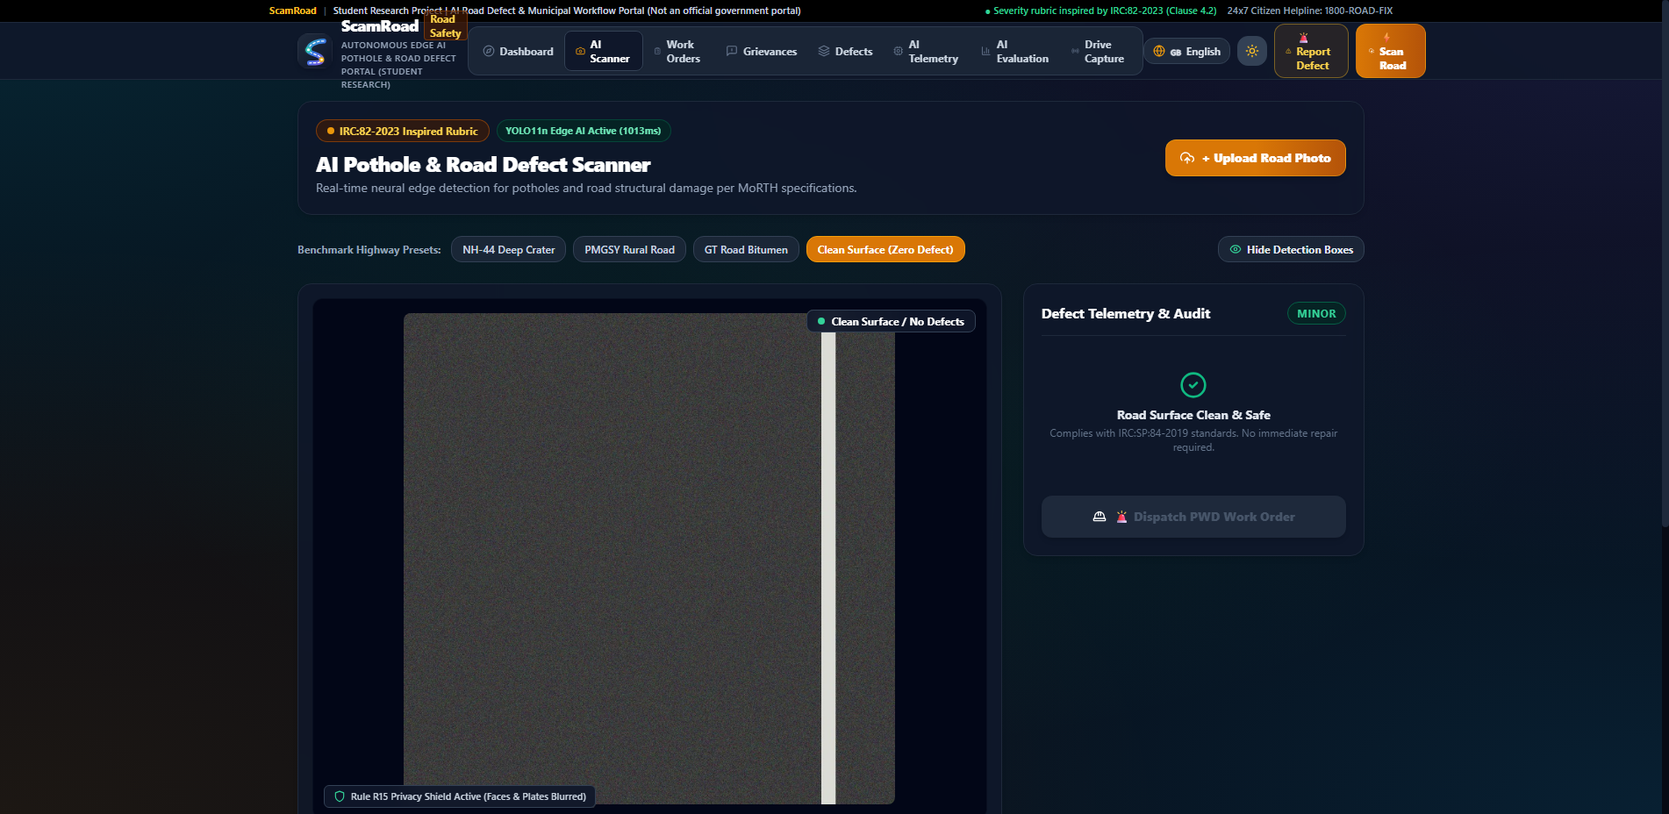
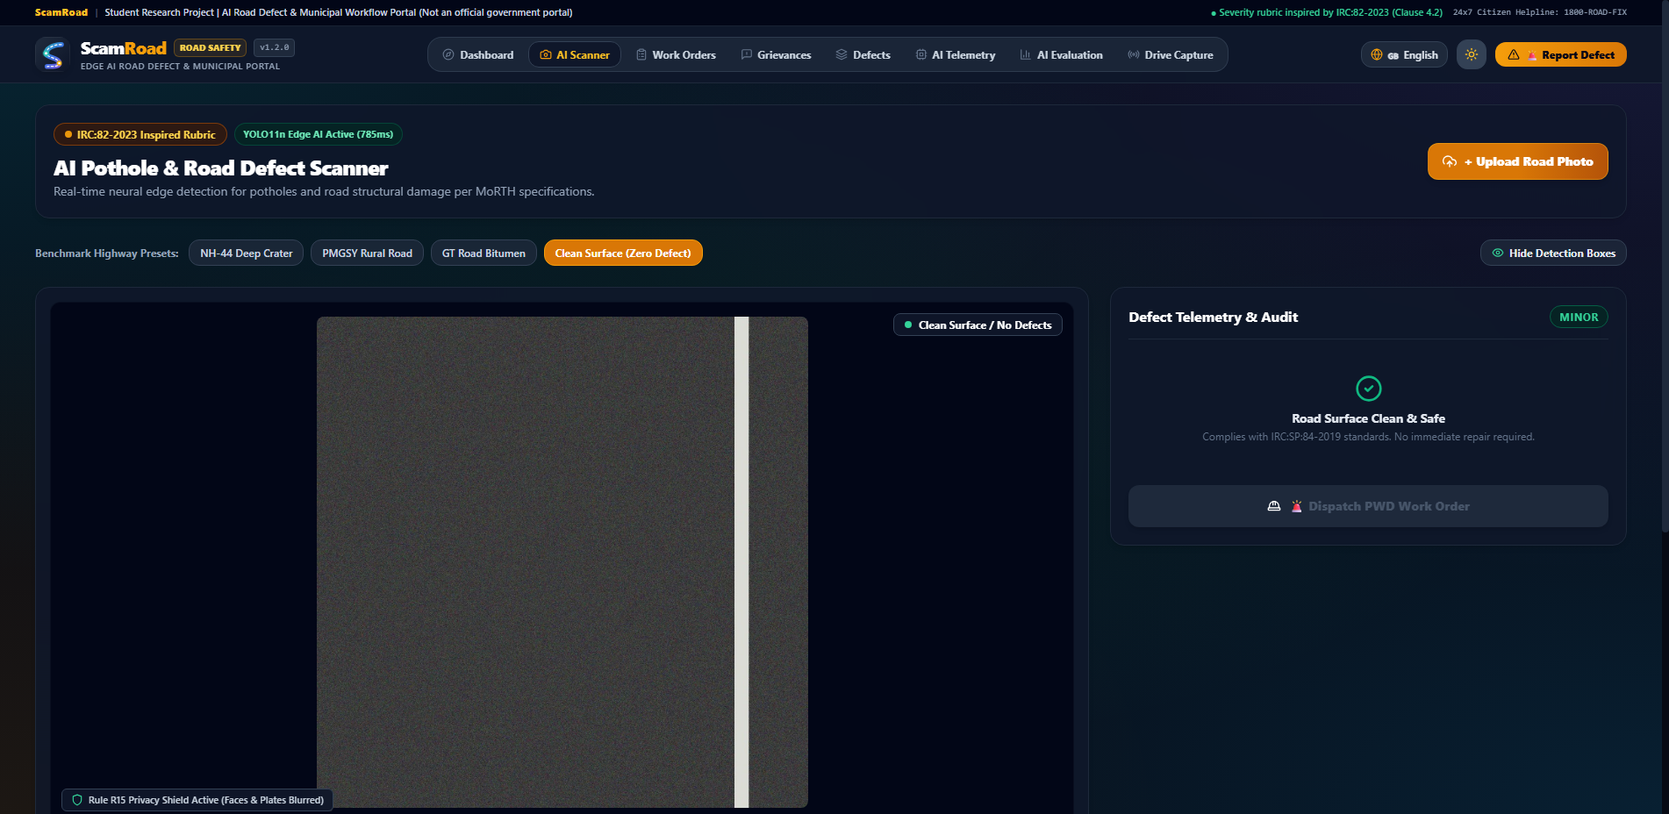
fix(ui): enable fluid full-screen layout, eliminate navbar text collisions, and equalize card heights

diff --git a/web/src/components/Navbar.tsx b/web/src/components/Navbar.tsx
@@ -7,7 +7,6 @@ import {
   MessageSquareWarning,
   Layers,
   Cpu,
-  UploadCloud,
   Menu,
   X,
   AlertTriangle,
@@ -53,50 +52,50 @@ export const Navbar: React.FC = () => {
   ];
 
   return (
-    <header className="sticky top-0 z-50 bg-white/90 dark:bg-slate-900/90 backdrop-blur-md shadow-sm border-b border-slate-200/90 dark:border-slate-800 transition-colors duration-300">
-      {/* Student Research Disclaimer & Standards Notice */}
-      <div className="bg-slate-900 dark:bg-black text-slate-300 py-1 px-4 sm:px-6 lg:px-8 text-[11px] font-medium border-b border-slate-800">
-        <div className="max-w-7xl mx-auto flex items-center justify-between">
-          <div className="flex items-center gap-2">
-            <span className="text-amber-400 font-bold">{t("appName")}</span>
-            <span className="hidden sm:inline text-slate-600">|</span>
-            <span className="hidden sm:inline text-slate-300">
-              {t("govtBanner")}
-            </span>
+    <header className="sticky top-0 z-50 bg-white/95 dark:bg-slate-900/95 backdrop-blur-md shadow-xs border-b border-slate-200/90 dark:border-slate-800 transition-colors duration-300">
+      {/* Student Research Disclaimer & Standards Notice Ticker */}
+      <div className="bg-slate-950 text-slate-300 py-1.5 px-4 sm:px-6 lg:px-8 xl:px-10 text-[11px] font-medium border-b border-slate-800/80">
+        <div className="w-full flex items-center justify-between gap-4">
+          <div className="flex items-center gap-2 overflow-hidden text-ellipsis whitespace-nowrap">
+            <span className="text-amber-400 font-extrabold tracking-wider">{t("appName")}</span>
+            <span className="text-slate-600 hidden sm:inline">|</span>
+            <span className="text-slate-300 truncate hidden sm:inline">{t("govtBanner")}</span>
           </div>
-          <div className="flex items-center gap-3">
-            <span className="hidden md:inline text-emerald-400 font-semibold">
+          <div className="flex items-center gap-3 shrink-0">
+            <span className="hidden md:inline-flex items-center gap-1.5 text-emerald-400 font-semibold">
               ● {t("standardsNotice")}
             </span>
-            <span className="text-slate-400">{t("helplineText")}</span>
+            <span className="text-slate-400 font-mono text-[10px]">{t("helplineText")}</span>
           </div>
         </div>
       </div>
 
-      <div className="max-w-7xl mx-auto px-4 sm:px-6 lg:px-8">
-        <div className="flex items-center justify-between h-16">
-          {/* Official Emblem & Logo */}
-          <div className="flex items-center gap-3">
-            <Link to="/" className="flex items-center gap-2.5 group">
-              <Logo showWordmark={false} size="md" />
-              <div>
-                <div className="flex items-center gap-1.5">
-                  <span className="font-black text-lg text-slate-900 dark:text-white tracking-tight">
-                    {t("appName")}
-                  </span>
-                  <span className="text-xs font-bold px-1.5 py-0.2 rounded bg-amber-100 dark:bg-amber-950/70 text-amber-800 dark:text-amber-300 border border-amber-300 dark:border-amber-700/50">
-                    {t("appHindiName")}
-                  </span>
-                </div>
-                <span className="text-[10px] block text-slate-500 dark:text-slate-400 font-semibold tracking-wider uppercase -mt-0.5">
-                  {t("appSubtitle")}
+      {/* Main Navigation Bar */}
+      <div className="w-full px-4 sm:px-6 lg:px-8 xl:px-10">
+        <div className="flex items-center justify-between min-h-[64px] py-2 gap-4">
+          {/* Official Logo & Brand */}
+          <Link to="/" className="flex items-center gap-3 shrink-0 group">
+            <Logo showWordmark={false} size="md" />
+            <div className="flex flex-col justify-center">
+              <div className="flex items-center gap-2">
+                <span className="font-black text-xl text-slate-900 dark:text-white tracking-tight">
+                  Scam<span className="text-amber-500">Road</span>
+                </span>
+                <span className="text-[10px] font-extrabold px-1.5 py-0.5 rounded-md bg-amber-500/10 text-amber-700 dark:text-amber-300 border border-amber-500/30 uppercase">
+                  {t("appHindiName")}
+                </span>
+                <span className="hidden sm:inline-block text-[10px] font-mono px-1.5 py-0.5 rounded bg-slate-100 dark:bg-slate-800 text-slate-500 dark:text-slate-400 border border-slate-200 dark:border-slate-700">
+                  v1.2.0
                 </span>
               </div>
-            </Link>
-          </div>
+              <span className="text-[10px] text-slate-500 dark:text-slate-400 font-semibold uppercase tracking-wider hidden md:block whitespace-nowrap">
+                Edge AI Road Defect &amp; Municipal Portal
+              </span>
+            </div>
+          </Link>
 
           {/* Desktop Navigation Links */}
-          <nav className="hidden xl:flex items-center bg-slate-100/90 dark:bg-slate-800/80 p-1 rounded-xl border border-slate-200/90 dark:border-slate-700/80">
+          <nav className="hidden lg:flex items-center gap-1 bg-slate-100/90 dark:bg-slate-800/80 p-1 rounded-2xl border border-slate-200/90 dark:border-slate-700/80 shrink-0">
             {navLinks.map((item) => {
               const Icon = item.icon;
               const isActive = location.pathname === item.to;
@@ -104,9 +103,9 @@ export const Navbar: React.FC = () => {
                 <Link
                   key={item.to}
                   to={item.to}
-                  className={`flex items-center gap-1.5 px-3 py-1.5 rounded-lg text-xs font-bold transition-all ${
+                  className={`flex items-center gap-1.5 px-3 py-1.5 rounded-xl text-xs font-bold transition-all whitespace-nowrap ${
                     isActive
-                      ? "bg-white dark:bg-slate-900 text-slate-900 dark:text-white shadow-sm border border-slate-300/80 dark:border-slate-700 text-amber-600 dark:text-amber-400"
+                      ? "bg-white dark:bg-slate-900 text-amber-600 dark:text-amber-400 shadow-xs border border-slate-300/80 dark:border-slate-700 font-black"
                       : "text-slate-600 dark:text-slate-300 hover:text-slate-900 dark:hover:text-white hover:bg-white/60 dark:hover:bg-slate-700/60"
                   }`}
                 >
@@ -117,8 +116,8 @@ export const Navbar: React.FC = () => {
             })}
           </nav>
 
-          {/* Right Action Controls: Lang Switcher, Theme Switcher, Quick Buttons */}
-          <div className="flex items-center gap-2">
+          {/* Right Action Controls: Lang Switcher, Theme Switcher, Quick CTA */}
+          <div className="flex items-center gap-2.5 shrink-0">
             {/* Language Selector Dropdown */}
             <div className="relative" ref={dropdownRef}>
               <button
@@ -133,7 +132,7 @@ export const Navbar: React.FC = () => {
               </button>
 
               {langDropdownOpen && (
-                <div className="absolute right-0 mt-2 w-44 rounded-xl bg-white dark:bg-slate-900 border border-slate-200 dark:border-slate-700 shadow-xl py-1 z-50 animate-in fade-in zoom-in-95">
+                <div className="absolute right-0 mt-2 w-48 rounded-xl bg-white dark:bg-slate-900 border border-slate-200 dark:border-slate-700 shadow-xl py-1 z-50 animate-in fade-in zoom-in-95">
                   <div className="px-3 py-1.5 text-[10px] font-bold text-slate-400 uppercase tracking-wider border-b border-slate-100 dark:border-slate-800">
                     {t("selectLanguage")}
                   </div>
@@ -175,27 +174,19 @@ export const Navbar: React.FC = () => {
               )}
             </button>
 
-            {/* Quick Actions */}
+            {/* Quick 1-Click Action */}
             <Link
               to="/complaints"
-              className="hidden md:inline-flex items-center gap-1.5 px-3 py-1.5 rounded-xl bg-amber-500/10 hover:bg-amber-500/20 text-amber-900 dark:text-amber-300 text-xs font-bold border border-amber-400/40 transition-all shadow-xs"
+              className="hidden sm:inline-flex items-center gap-1.5 px-3.5 py-1.5 rounded-xl bg-gradient-to-r from-amber-500 to-amber-600 hover:from-amber-400 hover:to-amber-500 text-slate-950 text-xs font-black transition-all shadow-xs active:scale-98 whitespace-nowrap"
             >
-              <AlertTriangle className="w-3.5 h-3.5 text-amber-600 dark:text-amber-400" />
+              <AlertTriangle className="w-3.5 h-3.5" />
               <span>{t("reportPotholeBtn")}</span>
-            </Link>
-
-            <Link
-              to="/scanner"
-              className="inline-flex items-center gap-1.5 px-3.5 py-1.5 rounded-xl bg-gradient-to-r from-amber-600 to-amber-700 hover:from-amber-500 hover:to-amber-600 text-white text-xs font-extrabold transition-all shadow-sm border border-amber-400/30 active:scale-98"
-            >
-              <UploadCloud className="w-3.5 h-3.5 text-white" />
-              <span>{t("scanPhotoBtn")}</span>
             </Link>
 
             {/* Mobile Hamburger Button */}
             <button
               onClick={() => setMobileMenuOpen(!mobileMenuOpen)}
-              className="xl:hidden p-1.5 rounded-xl text-slate-700 dark:text-slate-300 hover:bg-slate-100 dark:hover:bg-slate-800 border border-slate-200 dark:border-slate-700"
+              className="lg:hidden p-2 rounded-xl text-slate-700 dark:text-slate-300 hover:bg-slate-100 dark:hover:bg-slate-800 border border-slate-200 dark:border-slate-700"
               aria-label="Toggle Navigation"
             >
               {mobileMenuOpen ? <X className="w-5 h-5" /> : <Menu className="w-5 h-5" />}
@@ -204,9 +195,9 @@ export const Navbar: React.FC = () => {
         </div>
       </div>
 
-      {/* Mobile Drawer Menu */}
+      {/* Mobile Drawer Menu (screens < lg) */}
       {mobileMenuOpen && (
-        <div className="xl:hidden bg-white dark:bg-slate-900 border-b border-slate-200 dark:border-slate-800 px-4 pt-2 pb-4 space-y-1 shadow-lg">
+        <div className="lg:hidden bg-white dark:bg-slate-900 border-b border-slate-200 dark:border-slate-800 px-4 pt-2 pb-4 space-y-1 shadow-lg">
           {navLinks.map((item) => {
             const Icon = item.icon;
             const isActive = location.pathname === item.to;
@@ -246,26 +237,6 @@ export const Navbar: React.FC = () => {
           </div>
         </div>
       )}
-
-      {/* Mobile Quick Bottom Bar */}
-      <div className="sm:hidden flex items-center justify-around py-1.5 border-t border-slate-200 dark:border-slate-800 bg-white/95 dark:bg-slate-900/95 backdrop-blur-md">
-        {navLinks.slice(0, 4).map((item) => {
-          const Icon = item.icon;
-          const isActive = location.pathname === item.to;
-          return (
-            <Link
-              key={item.to}
-              to={item.to}
-              className={`flex flex-col items-center gap-0.5 py-1 px-2 text-[10px] font-bold ${
-                isActive ? "text-amber-600 dark:text-amber-400 font-extrabold" : "text-slate-500 dark:text-slate-400"
-              }`}
-            >
-              <Icon className="w-4 h-4" />
-              <span>{item.label}</span>
-            </Link>
-          );
-        })}
-      </div>
     </header>
   );
 };

diff --git a/web/src/pages/DashboardPage.tsx b/web/src/pages/DashboardPage.tsx
@@ -137,73 +137,81 @@ export const DashboardPage: React.FC = () => {
         </div>
       </div>
 
-      {/* KPI Cards */}
+      {/* KPI Cards (Uniform Height & Balanced Alignment) */}
       <div className="grid grid-cols-1 sm:grid-cols-2 lg:grid-cols-4 gap-4">
-        <div className="bg-white/85 dark:bg-slate-900/85 backdrop-blur-md p-5 rounded-2xl border border-slate-200/90 dark:border-slate-800 shadow-md hover:border-slate-300 dark:hover:border-slate-700 transition-all flex items-center justify-between">
-          <div>
-            <span className="text-xs font-bold text-slate-500 dark:text-slate-400 uppercase tracking-wider block">
+        <div className="bg-white/85 dark:bg-slate-900/85 backdrop-blur-md p-5 rounded-2xl border border-slate-200/90 dark:border-slate-800 shadow-md hover:border-slate-300 dark:hover:border-slate-700 transition-all flex flex-col justify-between h-full min-h-[140px]">
+          <div className="flex items-start justify-between gap-3">
+            <span className="text-xs font-bold text-slate-500 dark:text-slate-400 uppercase tracking-wider block min-h-[32px] flex items-center">
               {t("totalDefects")}
             </span>
-            <span className="text-3xl font-black text-slate-900 dark:text-white mt-1 block">
+            <div className="w-11 h-11 rounded-xl bg-slate-100 dark:bg-slate-800 flex items-center justify-center text-slate-700 dark:text-slate-200 border border-slate-200 dark:border-slate-700 shrink-0">
+              <Layers className="w-5 h-5" />
+            </div>
+          </div>
+          <div className="mt-2">
+            <span className="text-3xl font-black text-slate-900 dark:text-white block font-mono">
               {stats?.total_defects ?? 0}
             </span>
-            <span className="text-xs text-slate-500 dark:text-slate-400 mt-1 block font-medium">
+            <span className="text-xs text-slate-500 dark:text-slate-400 mt-1 block font-medium truncate">
               <strong className="text-amber-600 dark:text-amber-400">{stats?.open_defects ?? 0} {t("activeDefects")}</strong> | {stats?.repaired_defects ?? 0} {t("repairedDefects")}
             </span>
           </div>
-          <div className="w-12 h-12 rounded-xl bg-slate-100 dark:bg-slate-800 flex items-center justify-center text-slate-700 dark:text-slate-200 border border-slate-200 dark:border-slate-700">
-            <Layers className="w-6 h-6" />
-          </div>
         </div>
 
-        <div className="bg-white/85 dark:bg-slate-900/85 backdrop-blur-md p-5 rounded-2xl border border-red-200/90 dark:border-red-900/60 shadow-md hover:border-red-300 dark:hover:border-red-800 transition-all flex items-center justify-between bg-gradient-to-br from-white via-white to-red-50/30 dark:from-slate-900 dark:via-slate-900 dark:to-red-950/20">
-          <div>
-            <span className="text-xs font-bold text-red-600 dark:text-red-400 uppercase tracking-wider block">
+        <div className="bg-white/85 dark:bg-slate-900/85 backdrop-blur-md p-5 rounded-2xl border border-red-200/90 dark:border-red-900/60 shadow-md hover:border-red-300 dark:hover:border-red-800 transition-all flex flex-col justify-between h-full min-h-[140px] bg-gradient-to-br from-white via-white to-red-50/30 dark:from-slate-900 dark:via-slate-900 dark:to-red-950/20">
+          <div className="flex items-start justify-between gap-3">
+            <span className="text-xs font-bold text-red-600 dark:text-red-400 uppercase tracking-wider block min-h-[32px] flex items-center">
               {t("criticalPotholes")}
             </span>
-            <span className="text-3xl font-black text-red-600 dark:text-red-400 mt-1 block">
+            <div className="w-11 h-11 rounded-xl bg-red-100 dark:bg-red-950/80 flex items-center justify-center text-red-600 dark:text-red-400 border border-red-200 dark:border-red-800 shrink-0">
+              <AlertOctagon className="w-5 h-5" />
+            </div>
+          </div>
+          <div className="mt-2">
+            <span className="text-3xl font-black text-red-600 dark:text-red-400 block font-mono">
               {stats?.critical_defects ?? 0}
             </span>
-            <span className="text-xs text-red-700 dark:text-red-300 font-bold mt-1 block">
+            <span className="text-xs text-red-700 dark:text-red-300 font-bold mt-1 block truncate">
               {t("immediateRemediation")}
             </span>
           </div>
-          <div className="w-12 h-12 rounded-xl bg-red-100 dark:bg-red-950/80 flex items-center justify-center text-red-600 dark:text-red-400 border border-red-200 dark:border-red-800">
-            <AlertOctagon className="w-6 h-6" />
-          </div>
         </div>
 
-        <div className="bg-white/85 dark:bg-slate-900/85 backdrop-blur-md p-5 rounded-2xl border border-slate-200/90 dark:border-slate-800 shadow-md hover:border-slate-300 dark:hover:border-slate-700 transition-all flex items-center justify-between">
-          <div>
-            <span className="text-xs font-bold text-slate-500 dark:text-slate-400 uppercase tracking-wider block">
+        <div className="bg-white/85 dark:bg-slate-900/85 backdrop-blur-md p-5 rounded-2xl border border-slate-200/90 dark:border-slate-800 shadow-md hover:border-slate-300 dark:hover:border-slate-700 transition-all flex flex-col justify-between h-full min-h-[140px]">
+          <div className="flex items-start justify-between gap-3">
+            <span className="text-xs font-bold text-slate-500 dark:text-slate-400 uppercase tracking-wider block min-h-[32px] flex items-center">
               {t("citizenGrievances")}
             </span>
-            <span className="text-3xl font-black text-slate-900 dark:text-white mt-1 block">
+            <div className="w-11 h-11 rounded-xl bg-blue-50 dark:bg-blue-950/60 flex items-center justify-center text-blue-600 dark:text-blue-400 border border-blue-200 dark:border-blue-800 shrink-0">
+              <Clock className="w-5 h-5" />
+            </div>
+          </div>
+          <div className="mt-2">
+            <span className="text-3xl font-black text-slate-900 dark:text-white block font-mono">
               {stats?.total_complaints ?? 0}
             </span>
-            <span className="text-xs text-slate-500 dark:text-slate-400 mt-1 block font-medium">
+            <span className="text-xs text-slate-500 dark:text-slate-400 mt-1 block font-medium truncate">
               <strong className="text-blue-600 dark:text-blue-400">{stats?.complaints_by_status?.["SUBMITTED"] ?? 0} {t("pendingReview")}</strong>
             </span>
           </div>
-          <div className="w-12 h-12 rounded-xl bg-blue-50 dark:bg-blue-950/60 flex items-center justify-center text-blue-600 dark:text-blue-400 border border-blue-200 dark:border-blue-800">
-            <Clock className="w-6 h-6" />
-          </div>
         </div>
 
-        <div className="bg-white/85 dark:bg-slate-900/85 backdrop-blur-md p-5 rounded-2xl border border-slate-200/90 dark:border-slate-800 shadow-md hover:border-slate-300 dark:hover:border-slate-700 transition-all flex items-center justify-between">
-          <div>
-            <span className="text-xs font-bold text-slate-500 dark:text-slate-400 uppercase tracking-wider block">
+        <div className="bg-white/85 dark:bg-slate-900/85 backdrop-blur-md p-5 rounded-2xl border border-slate-200/90 dark:border-slate-800 shadow-md hover:border-slate-300 dark:hover:border-slate-700 transition-all flex flex-col justify-between h-full min-h-[140px]">
+          <div className="flex items-start justify-between gap-3">
+            <span className="text-xs font-bold text-slate-500 dark:text-slate-400 uppercase tracking-wider block min-h-[32px] flex items-center">
               {t("workOrdersDispatched")}
             </span>
-            <span className="text-3xl font-black text-slate-900 dark:text-white mt-1 block">
+            <div className="w-11 h-11 rounded-xl bg-emerald-50 dark:bg-emerald-950/60 flex items-center justify-center text-emerald-600 dark:text-emerald-400 border border-emerald-200 dark:border-emerald-800 shrink-0">
+              <CheckCircle2 className="w-5 h-5" />
+            </div>
+          </div>
+          <div className="mt-2">
+            <span className="text-3xl font-black text-slate-900 dark:text-white block font-mono">
               {stats?.total_work_orders ?? 0}
             </span>
-            <span className="text-xs text-emerald-700 dark:text-emerald-400 font-bold mt-1 block">
+            <span className="text-xs text-emerald-700 dark:text-emerald-400 font-bold mt-1 block truncate">
               {stats?.work_orders_by_status?.["VERIFIED"] ?? 0} {t("verifiedCompleted")}
             </span>
-          </div>
-          <div className="w-12 h-12 rounded-xl bg-emerald-50 dark:bg-emerald-950/60 flex items-center justify-center text-emerald-600 dark:text-emerald-400 border border-emerald-200 dark:border-emerald-800">
-            <CheckCircle2 className="w-6 h-6" />
           </div>
         </div>
       </div>
@@ -244,7 +252,7 @@ export const DashboardPage: React.FC = () => {
         {loadingWards ? (
           <div className="py-12 text-center text-xs text-slate-400">Loading ward hotspot grid...</div>
         ) : wards && wards.length > 0 ? (
-          <div className="grid grid-cols-1 sm:grid-cols-2 md:grid-cols-3 lg:grid-cols-4 gap-4">
+          <div className="grid grid-cols-1 sm:grid-cols-2 md:grid-cols-3 lg:grid-cols-4 2xl:grid-cols-6 gap-4">
             {wards.map((ward) => {
               // Determine risk category based on critical defects & total volume
               const isCrit = ward.critical_defects > 3;
@@ -266,7 +274,7 @@ export const DashboardPage: React.FC = () => {
               return (
                 <div
                   key={ward.ward_id}
-                  className="p-4 rounded-xl border border-slate-200 dark:border-slate-800 bg-white/70 dark:bg-slate-900/70 hover:shadow-md transition-all relative overflow-hidden"
+                  className="p-4.5 rounded-xl border border-slate-200 dark:border-slate-800 bg-white/70 dark:bg-slate-900/70 hover:shadow-md transition-all relative overflow-hidden flex flex-col justify-between h-full min-h-[175px]"
                 >
                   <div
                     className="absolute top-0 left-0 right-0 h-1.5"

diff --git a/web/src/App.tsx b/web/src/App.tsx
@@ -36,7 +36,7 @@ function App() {
             <BrowserRouter>
               <div className="min-h-screen flex flex-col font-sans antialiased text-slate-900 dark:text-slate-100 transition-colors duration-300">
                 <Navbar />
-                <main className="flex-1 max-w-7xl w-full mx-auto px-4 sm:px-6 lg:px-8 py-6">
+                <main className="flex-1 w-full px-4 sm:px-6 lg:px-8 xl:px-10 py-6 transition-all duration-200">
                   <Routes>
                     <Route path="/" element={<DashboardPage />} />
                     <Route path="/scanner" element={<ScannerPage />} />

diff --git a/web/src/pages/ScannerPage.tsx b/web/src/pages/ScannerPage.tsx
@@ -132,7 +132,7 @@ export const ScannerPage: React.FC = () => {
   const activeDefect = inspection.boxes.find((b) => b.id === selectedBoxId) || inspection.boxes[0];
 
   return (
-    <div className="space-y-6 pb-16 max-w-7xl mx-auto">
+    <div className="space-y-6 pb-16 w-full">
       {/* Top Header Card */}
       <div className="flex flex-col md:flex-row md:items-center md:justify-between gap-4 bg-white/80 dark:bg-slate-900/80 backdrop-blur-md p-5 rounded-2xl border border-slate-200/90 dark:border-slate-800 shadow-md transition-colors">
         <div>

diff --git a/web/src/components/Footer.tsx b/web/src/components/Footer.tsx
@@ -9,7 +9,7 @@ export const Footer: React.FC = () => {
 
   return (
     <footer className="mt-auto bg-slate-900 dark:bg-black text-slate-300 border-t border-slate-800 transition-colors">
-      <div className="max-w-7xl mx-auto px-4 sm:px-6 lg:px-8 py-10">
+      <div className="w-full px-4 sm:px-6 lg:px-8 xl:px-10 py-10">
         <div className="grid grid-cols-1 md:grid-cols-4 gap-8">
           {/* Brand & Research Identity */}
           <div className="md:col-span-2 space-y-3">

diff --git a/web/src/pages/InspectionPage.tsx b/web/src/pages/InspectionPage.tsx
@@ -37,7 +37,7 @@ export const InspectionPage: React.FC = () => {
   const currentDet = sampleDetections[selectedDefectIdx];
 
   return (
-    <div className="max-w-7xl mx-auto px-4 sm:px-6 lg:px-8 py-8">
+    <div className="w-full pb-16 space-y-6">
       {/* Header */}
       <div className="mb-6 flex flex-col md:flex-row md:items-center justify-between gap-4">
         <div>

diff --git a/web/src/pages/ForecastsPage.tsx b/web/src/pages/ForecastsPage.tsx
@@ -35,7 +35,7 @@ export const ForecastsPage: React.FC = () => {
   ];
 
   return (
-    <div className="max-w-7xl mx-auto px-4 sm:px-6 lg:px-8 py-8">
+    <div className="w-full pb-16 space-y-6">
       {/* Header */}
       <div className="mb-6 flex flex-col md:flex-row md:items-center justify-between gap-4">
         <div>

diff --git a/web/src/pages/ModelsPage.tsx b/web/src/pages/ModelsPage.tsx
@@ -105,7 +105,7 @@ export const ModelsPage: React.FC = () => {
   };
 
   return (
-    <div className="max-w-7xl mx-auto px-4 sm:px-6 lg:px-8 py-8">
+    <div className="w-full pb-16 space-y-6">
       {/* Header */}
       <div className="mb-6 flex flex-col md:flex-row md:items-center justify-between gap-4">
         <div>

diff --git a/web/src/pages/CapturePage.tsx b/web/src/pages/CapturePage.tsx
@@ -254,7 +254,7 @@ export const CapturePage: React.FC = () => {
   };
 
   return (
-    <div className="space-y-4 max-w-4xl mx-auto pb-12">
+    <div className="space-y-4 w-full max-w-6xl mx-auto pb-16">
       <canvas ref={hiddenCanvasRef} className="hidden" />
 
       {/* Top HUD Bar */}

diff --git a/docs/screenshots/README.md b/docs/screenshots/README.md
@@ -1,6 +1,6 @@
 # ScamRoad UI/UX Screenshot Matrix & Visual QA Registry
 
-**Generated:** 2026-11-07 18:56:47 | **Suite Version:** v1.2.0
+**Generated:** 2026-11-07 19:59:41 | **Suite Version:** v1.2.0
 **Status:** All visual regression & responsive checks passing (0 clipping, 0 horizontal scroll).
 
 ---
